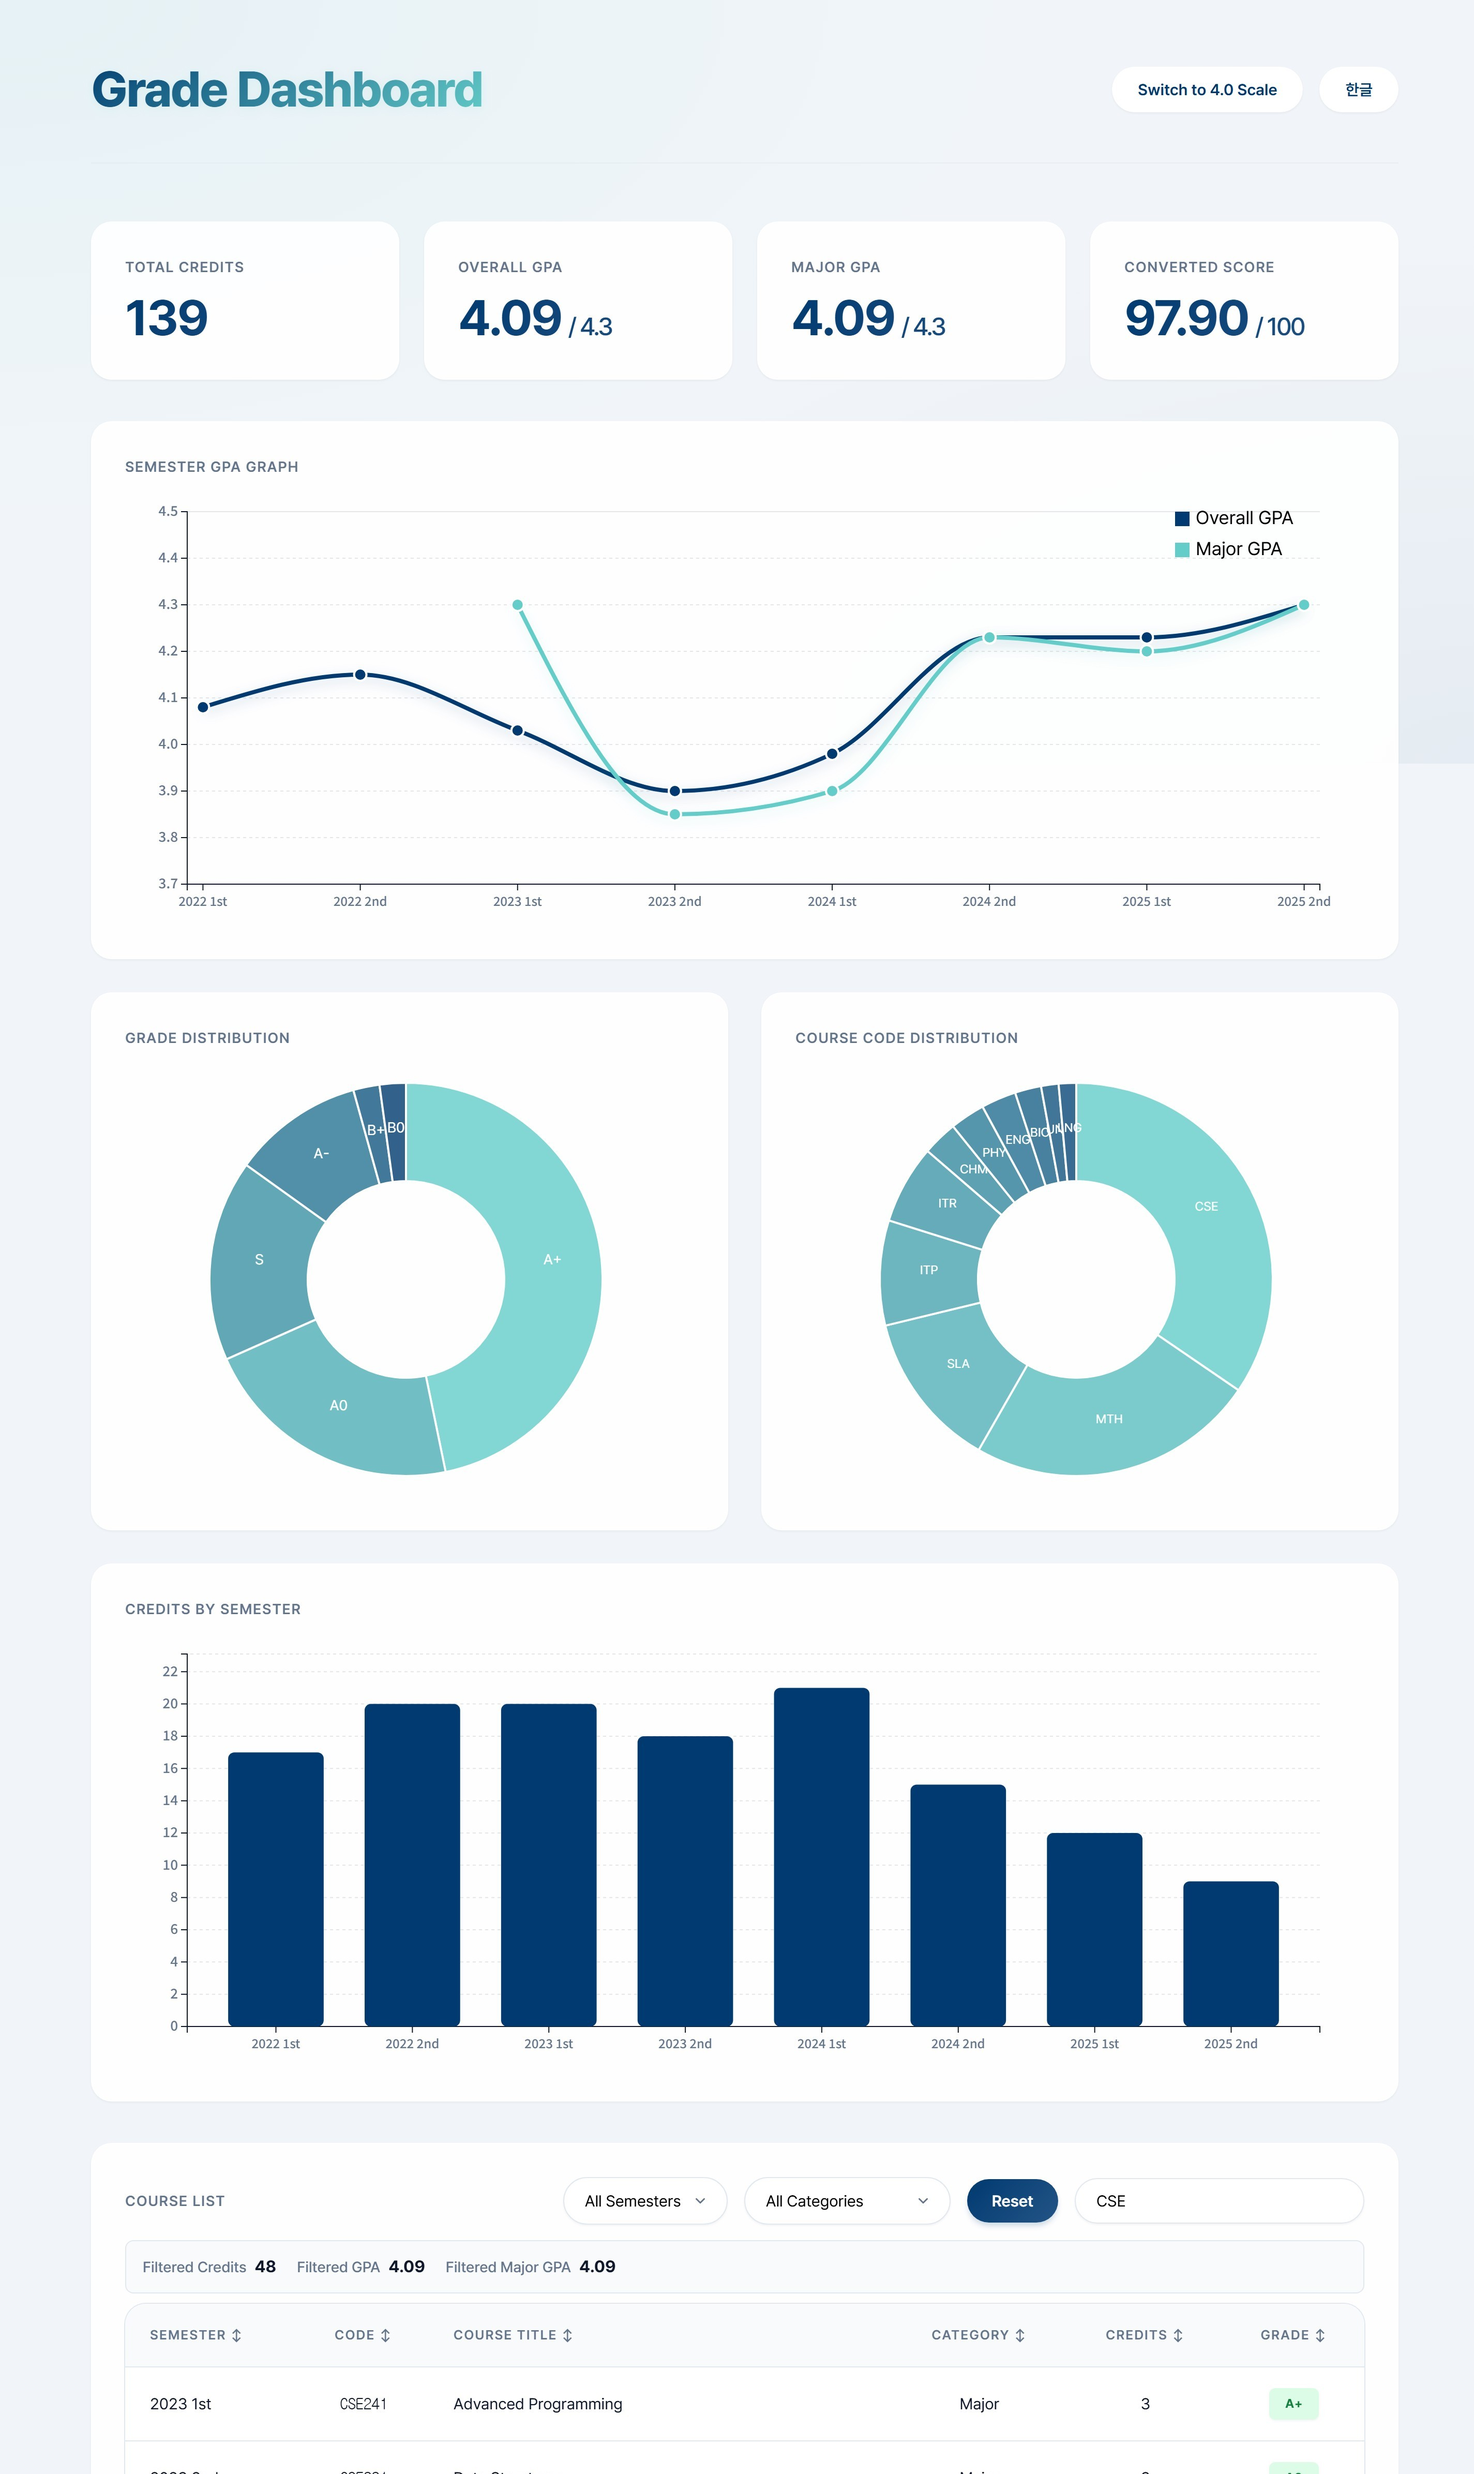
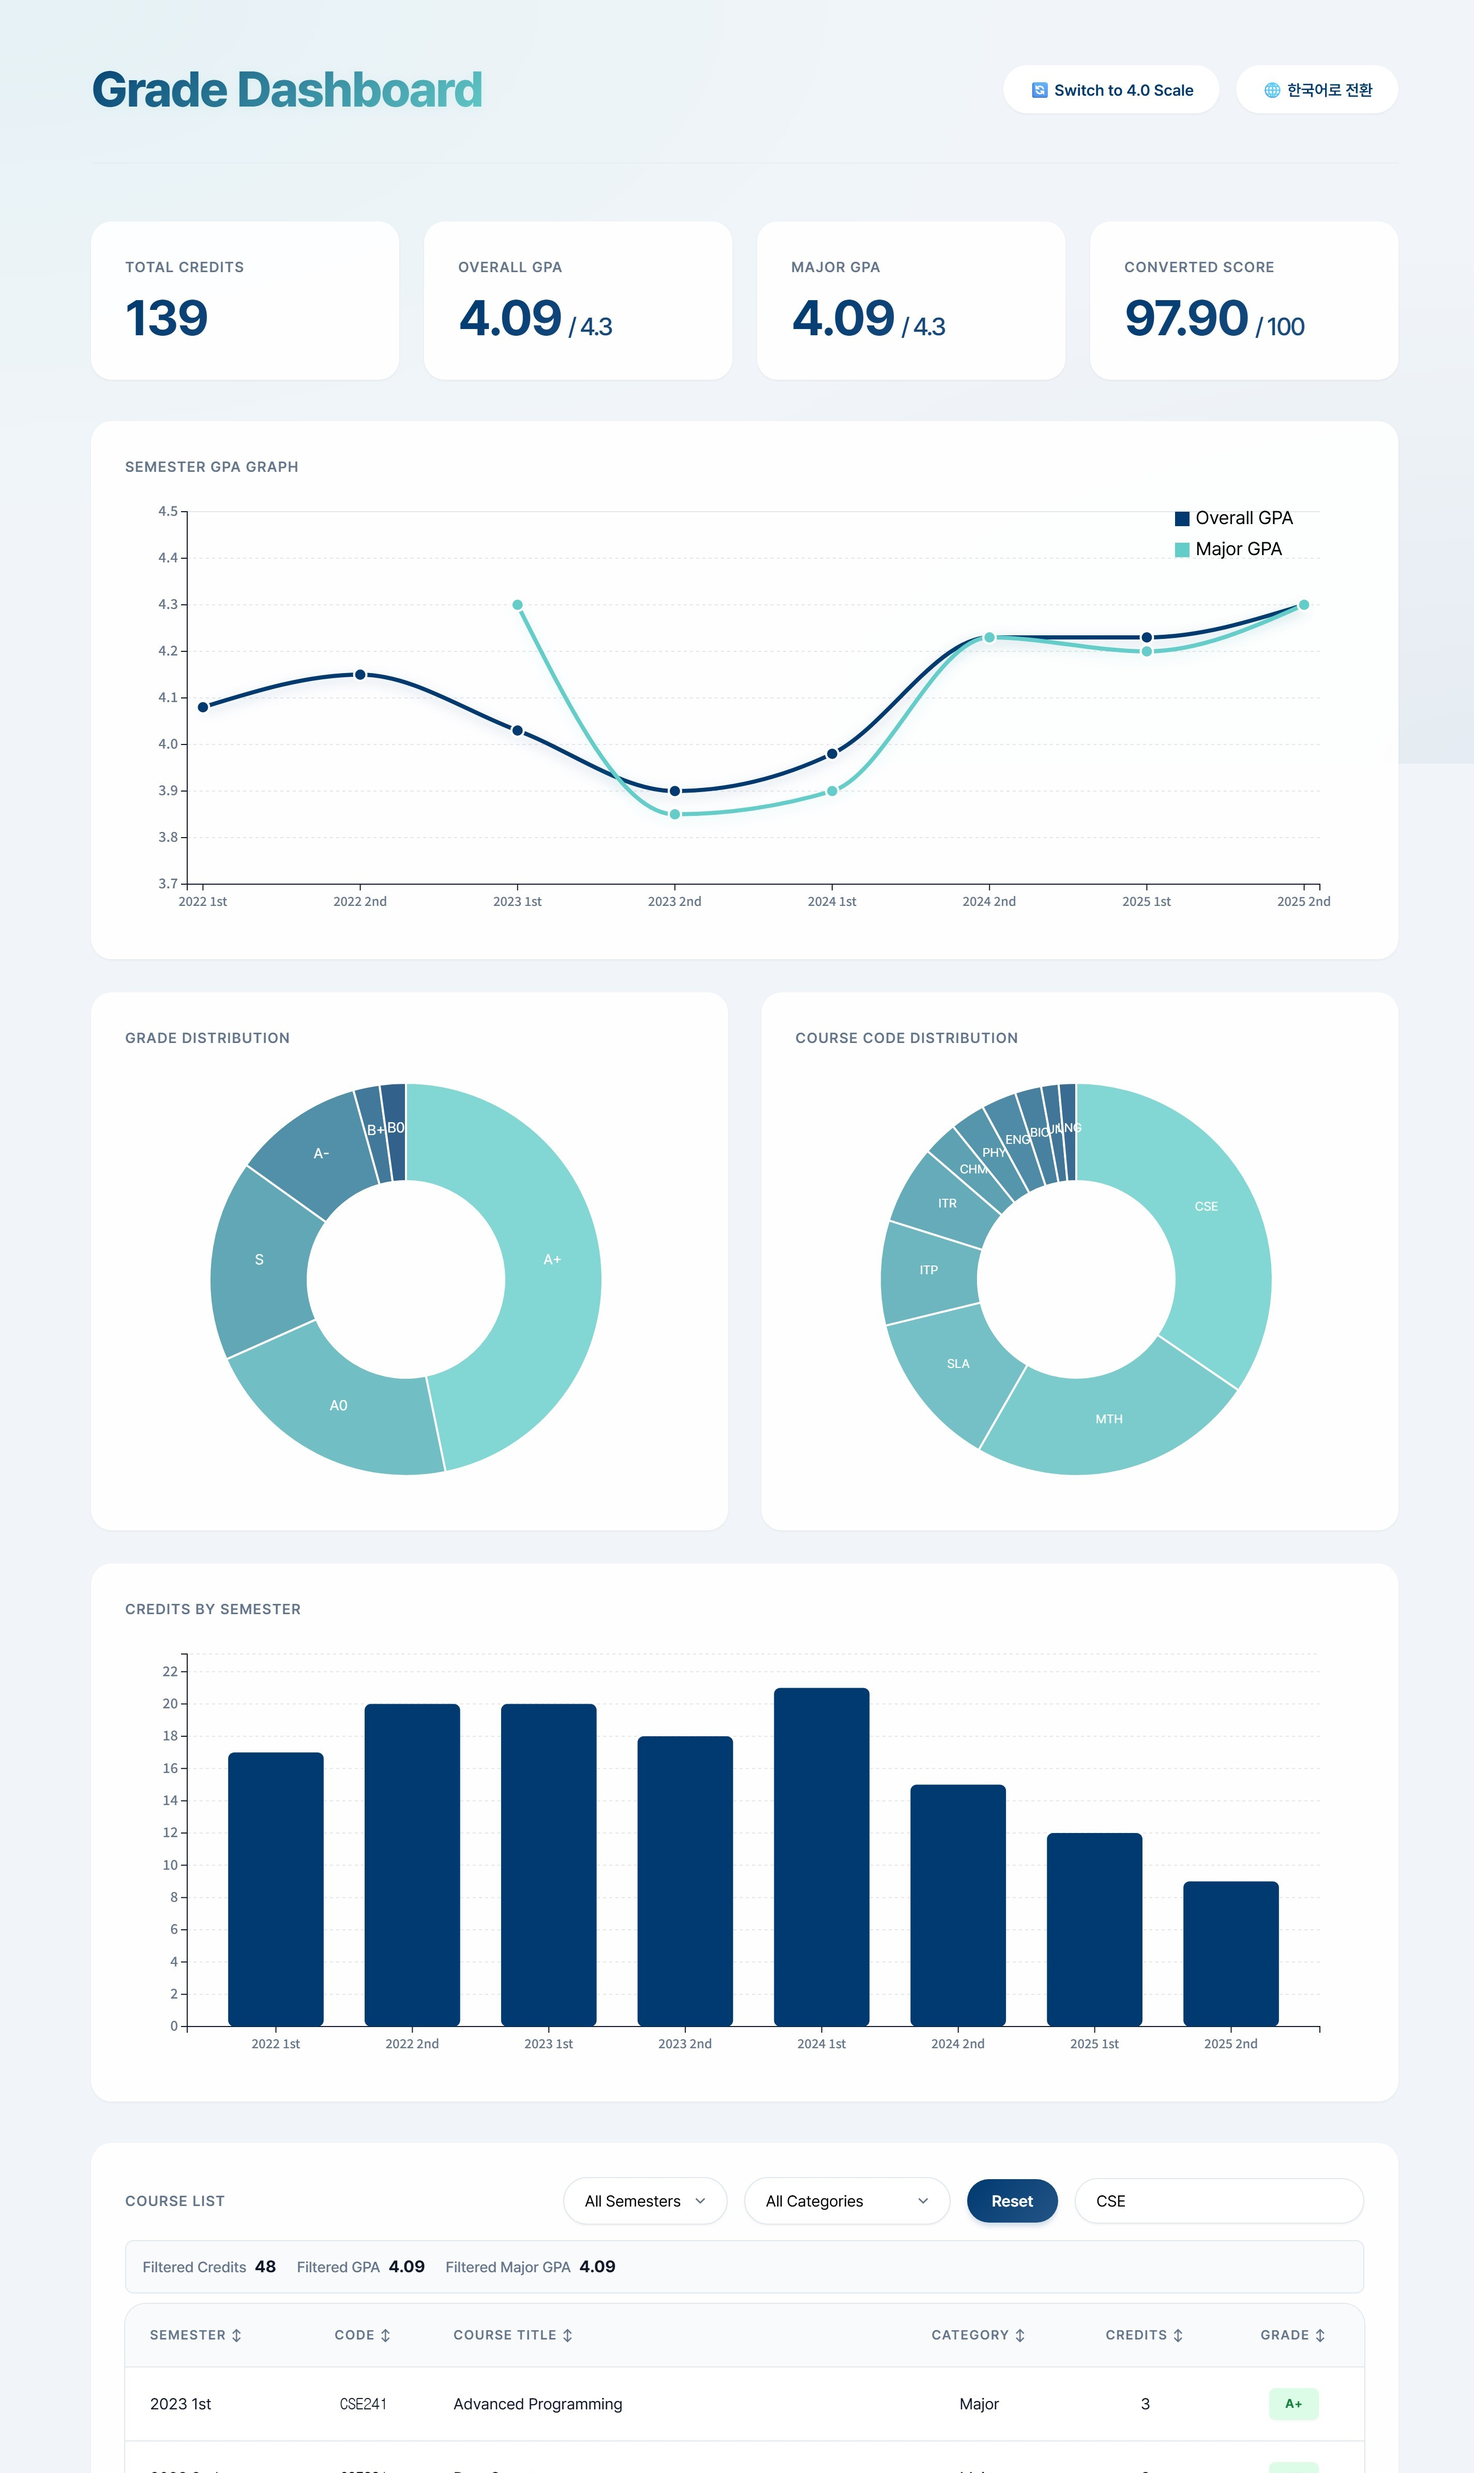
enhance UI button texts

Changed region(s): [[0.7807, 0.0312, 0.8119, 0.0623], [0.2186, 0.9975, 0.2498, 1.0], [0.0937, 0.9975, 0.1249, 1.0]]

diff --git a/script.js b/script.js
@@ -9,7 +9,7 @@ const UI_TEXT = {
         gradeDist: "Grade Distribution",
         codeDist: "Course Code Distribution",
         creditsPerSem: "Credits by Semester",
-        toggleBtn: "한글",
+        toggleBtn: "🌐 한국어로 전환",
         semester: "Semester",
         gpa: "GPA",
         count: "Count",
@@ -37,8 +37,8 @@ const UI_TEXT = {
             gpa: "Filtered GPA",
             majorGpa: "Filtered Major GPA"
         },
-        scaleToggle40: "Switch to 4.0 Scale",
-        scaleToggle43: "Switch to 4.3 Scale"
+        scaleToggle40: "🔄 Switch to 4.0 Scale",
+        scaleToggle43: "🔄 Switch to 4.3 Scale"
     },
     ko: {
         title: "성적 대시보드",
@@ -50,7 +50,7 @@ const UI_TEXT = {
         gradeDist: "성적 분포",
         codeDist: "과목 코드 분포",
         creditsPerSem: "학기별 이수학점",
-        toggleBtn: "English",
+        toggleBtn: "🌐 Switch to English",
         semester: "학기",
         gpa: "평점",
         count: "개수",
@@ -78,8 +78,8 @@ const UI_TEXT = {
             gpa: "필터된 평점평균",
             majorGpa: "필터된 전공 평점평균"
         },
-        scaleToggle40: "4.0 만점으로 전환",
-        scaleToggle43: "4.3 만점으로 전환"
+        scaleToggle40: "🔄 4.0 만점으로 변환",
+        scaleToggle43: "🔄 4.3 만점으로 변환"
     }
 };
 
@@ -761,7 +761,7 @@ function renderGpaTrendChart() {
     drawDataPoints('majorGPA', CHART_COLORS.major, UI_TEXT[currentLanguage].majorGPA);
 
     const legendX = isMobile ? chartWidth - 110 : chartWidth - 140;
-    const legendY = isMobile ? chartHeight - 50 : 0;
+    const legendY = 0;
 
     const legend = svg.append('g')
         .attr('transform', `translate(${legendX}, ${legendY})`);

diff --git a/index.html b/index.html
@@ -20,7 +20,7 @@
             <h1 id="page-title">Grade Dashboard</h1>
             <div class="header-controls">
                 <button id="scale-toggle" class="btn"></button>
-                <button id="lang-toggle" class="btn">한글</button>
+                <button id="lang-toggle" class="btn">🌐 한국어로 전환</button>
             </div>
         </header>
 
